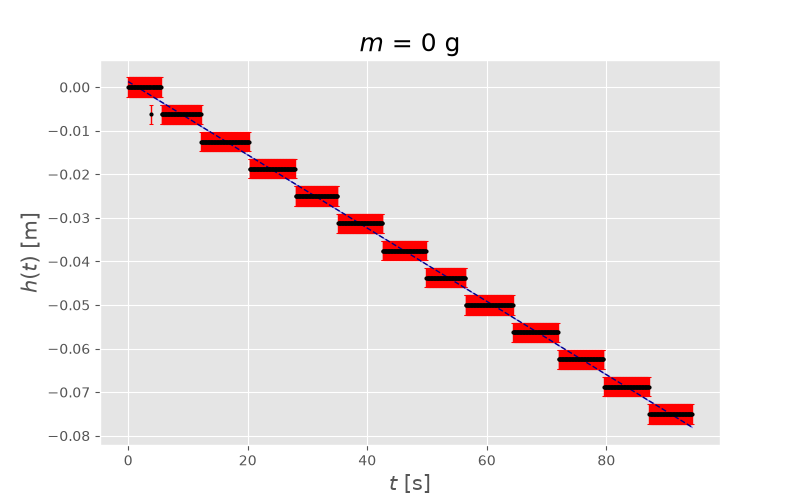
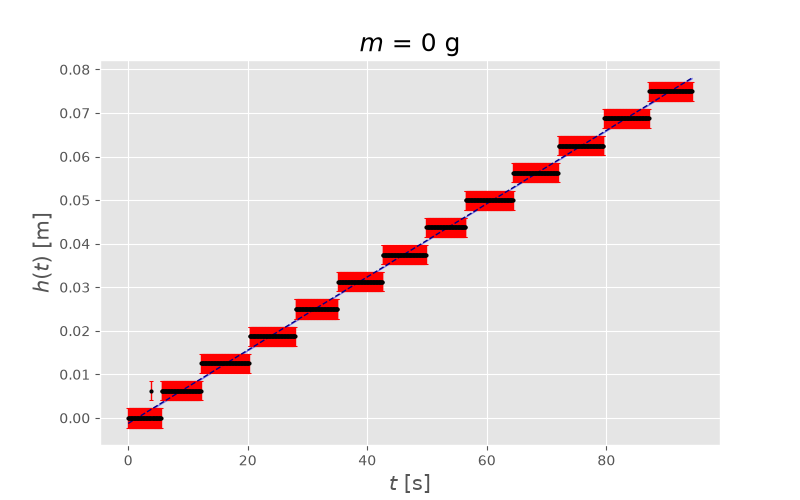
aggiustazionamenti

diff --git a/tenuta_cilindro.py b/tenuta_cilindro.py
@@ -11,18 +11,21 @@ G = 9.81
 
 M = [0, 31.5, 63.0, 101.3, 139.9] # g
 P = [] # kPa
-#S = [] # mm^2
-
 P_0 = 101.11 # kPa
 
-DP = []
-beta = []
+dm = 0.1*1.e-2 # g
 
-for i in range(1, 6):
-    data_vol = converti(f"./misure/Tenuta_cilindro/posizione_senza_termometro/{i}.txt")
-    data_vol["Posizione(m)"] = data_vol["Posizione(m)"]*1.e2
-    # if (i == 5):
-    #     data_vol = data_vol.drop(data_vol[(data_vol['Tempo(s)'] > 80)].index)
+df_beta = pd.DataFrame({
+    "P": [],
+    "beta": [],
+    "d_beta": [],
+})
+
+for i in range(1, 5):
+    data_vol = converti(f"./misure/Tenuta_cilindro/posizione/{i+1}.txt")
+    data_vol["Posizione(m)"] = -data_vol["Posizione(m)"]*1.e2 # converto in cm ed inverto
+    if (i == 4):
+        data_vol = data_vol.drop(data_vol[(data_vol['Tempo(s)'] > 80)].index)
     dh = 0.0022 # cm
 
     df = pd.DataFrame({
@@ -31,7 +34,7 @@ for i in range(1, 6):
         "dh": np.repeat(dh, data_vol.__len__())
     })
 
-    fit = LinearFit(df, "t", "h", "dh")
+    fit = LinearFit(df, "t", "h", "dh", True)
 
     alpha = fit.get_fit_params()[0][0] # cm/s
 
@@ -41,27 +44,35 @@ for i in range(1, 6):
     fig, ax = plt.subplots()
     fig.set_size_inches(8, 5)
     fit.graph(ax, ("$t$ [s]", "$h(t)$ [m]"), 2, 15)
-    ax.set_title(f"$m$ = {M[i-1]} g", fontsize=18)
-    plt.savefig(f"./immagini/tenuta_cilindro/senza_termometro/posizione_{i}.png")
+    ax.set_title(f"$m$ = {M[i]} g", fontsize=18)
+    plt.savefig(f"./immagini/tenuta_cilindro/con_termometro/posizione_{i+1}.png")
     plt.show()
 
     # Ricava la superficie
-    data_p = converti(f"./misure/Tenuta_cilindro/pressione_senza_termometro/{i}.txt")
-    p_mean = data_p["Pressione(kPa)"].mean()
+    data_p = converti(f"./misure/Tenuta_cilindro/pressione/{i+1}.txt")
+    P = data_p["Pressione(kPa)"].mean() # media
+    dP = np.sqrt(0.005**2 + (data_p["Pressione(kPa)"].std(ddof=1)**2)/data_p.__len__()) #kPa
 
-    S = ((M[i-1]*G)/p_mean)*1.e-2 # mm^2 -> cm^2
+    S = ((M[i]*G)/P)*1.e-2 # mm^2 -> cm^2
 
-    alpha = alpha*60 # cm/min
+    alpha = alpha*60 # cm/s -> cm/min
+    d_alpha = np.sqrt(fit.get_fit_params()[1][0][0]) * 60
+    beta = alpha * S # cm^3/min
+    # if i==0:
+    #     d_beta = beta * np.sqrt((dP/P)**2 + (d_alpha/alpha)**2) 
+    # else:
+    d_beta = beta * np.sqrt((dm/M[i])**2 + (dP/P)**2 + (d_alpha/alpha)**2)
 
-    beta.append(alpha * S) # cm^3/min
-    DP.append(p_mean)
+    df_beta.loc[i] = [P, beta, d_beta]
+
+print(df_beta)
+
+fit_beta = LinearFit(df_beta, "P", "beta", "d_beta")
 
 fig, ax = plt.subplots()
-fig.set_size_inches(8, 5)
-ax.plot(DP, beta, "o")
-ax.set_xlabel("$\\Delta P$ [kPa]", fontsize=15)
-ax.set_ylabel("$\\beta$ [cm$^3$/min]", fontsize=15)
-plt.savefig("./immagini/tenuta_cilindro/senza_termometro/beta.png")
+fit_beta.graph(ax, ("$\\Delta P$ [kPa]", "$\\beta$ [cm$^3$/min]"), 5, 15)
+plt.savefig("./immagini/tenuta_cilindro/con_termometro/beta.png")
 plt.show()
 
+print(fit_beta.get_chi2().chi2)
 
